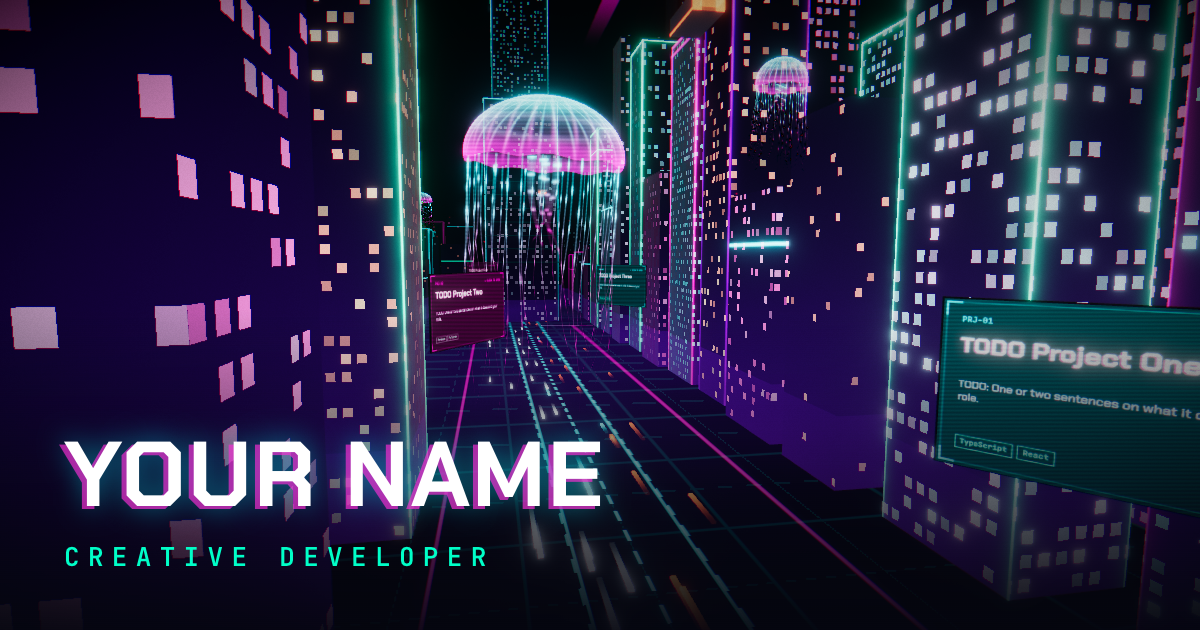
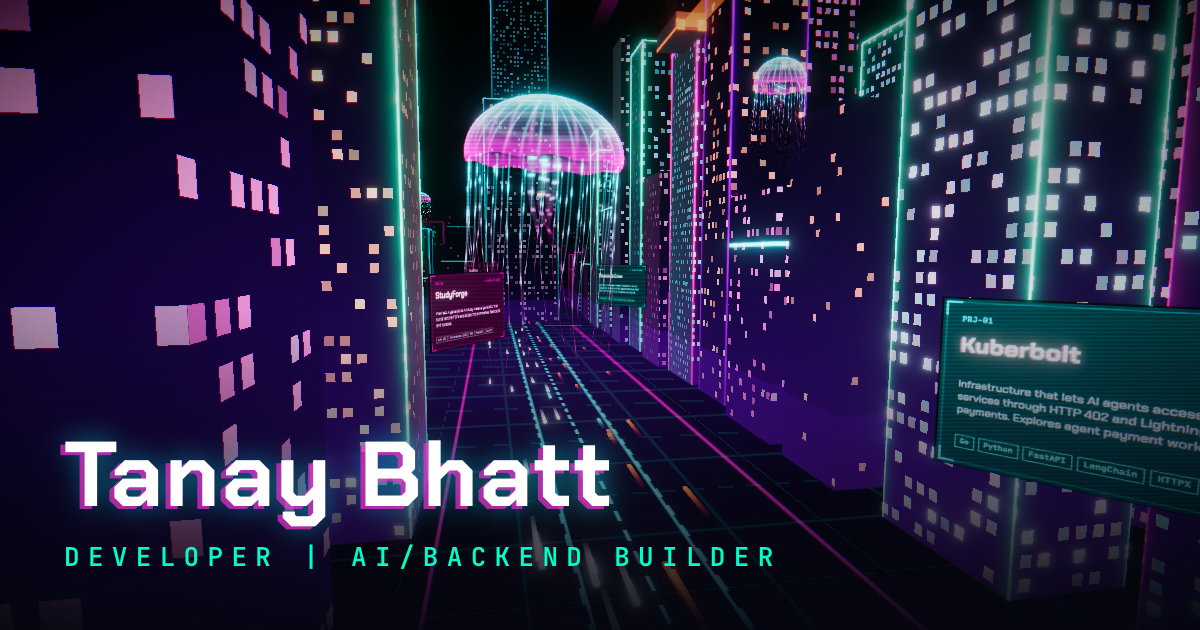
Fill in personal content; fit longer text on the holograms
- content.ts: bio, Kuberbolt + three planned projects, skills, contact
- skills tower: one floor per skill group instead of per item
- holo panels: auto-fit hero title and about bio, cap tech chips, ellipsize descriptions
- site URL falls back to Vercel's default production domain
- regenerated public/og.png

diff --git a/src/content.ts b/src/content.ts
@@ -1,5 +1,5 @@
 // ─────────────────────────────────────────────────────────────
-// ALL personal content lives here. Replace every "TODO" value.
+// ALL personal content lives here.
 // The 3D billboards and the HTML sections both read from this file.
 // ─────────────────────────────────────────────────────────────
 
@@ -26,68 +26,77 @@ export interface ContactLink {
 }
 
 export const content = {
-  name: 'YOUR NAME', // TODO
-  title: 'Creative Developer', // TODO
-  tagline: 'Building things that glow in the dark.', // TODO
-  location: 'TODO City, Country', // TODO
+  name: 'Tanay Bhatt',
+  title: 'Developer | AI/Backend Builder',
+  tagline: 'Building practical software at the intersection of AI, backend engineering, and decentralized systems.',
+  location: 'Udaipur, Rajasthan, India',
 
   bio: [
-    // TODO: 2–3 short paragraphs
-    'TODO: Who you are in one or two sentences.',
-    'TODO: What you work on and what you care about.',
+    "I'm a second-year undergraduate at IIT Jodhpur, passionate about software development, backend engineering, and building things that solve real problems. I enjoy exploring new technologies, experimenting with ideas, and turning concepts into working projects.",
+    "I actively participate in hackathons and enjoy working on projects involving AI agents, APIs, distributed systems, and developer tools. I'm particularly interested in understanding how systems work under the hood, from networking and concurrency to scalable architectures.",
+    "I'm also working toward becoming a stronger open-source contributor, with a particular interest in programs like Google Summer of Code (GSoC) and Summer of Bitcoin. I enjoy collaborating with other developers, learning from real-world codebases, and contributing to projects that people actually use.",
   ],
 
   projects: [
     {
-      id: 'project-one',
-      title: 'TODO Project One',
-      description: 'TODO: One or two sentences on what it does and your role.',
-      tech: ['TypeScript', 'React'],
-      links: [
-        { label: 'Live', href: 'https://example.com' },
-        { label: 'Code', href: 'https://github.com/' },
-      ],
+      id: 'kuberbolt',
+      title: 'Kuberbolt',
+      description:
+        'Infrastructure that lets AI agents access paid web services through HTTP 402 and Lightning Network payments. Explores agent payment workflows, non-custodial payments, and middleware for integrating payments into agent request loops.',
+      tech: ['Go', 'Python', 'FastAPI', 'LangChain', 'HTTPX', 'Lightning Network', 'LDK', 'libp2p'],
+      links: [{ label: 'Code', href: 'https://github.com/devlup-labs/kuberbolt' }],
       image: '',
     },
     {
-      id: 'project-two',
-      title: 'TODO Project Two',
-      description: 'TODO: One or two sentences on what it does and your role.',
-      tech: ['Python', 'PyTorch'],
-      links: [{ label: 'Code', href: 'https://github.com/' }],
+      id: 'studyforge',
+      title: 'StudyForge',
+      description:
+        'Planned. A generative AI study material generator that turns lecture PDFs and slides into summaries, flashcards and quizzes.',
+      tech: ['LLM API', 'Structured JSON', 'RAG', 'FastAPI', 'Docker', 'GitHub Actions'],
+      links: [],
       image: '',
     },
     {
-      id: 'project-three',
-      title: 'TODO Project Three',
-      description: 'TODO: One or two sentences on what it does and your role.',
-      tech: ['Three.js', 'GLSL'],
-      links: [{ label: 'Live', href: 'https://example.com' }],
+      id: 'researchcrew',
+      title: 'ResearchCrew',
+      description:
+        'Planned. A multi-agent research assistant: Planner, Researcher, Critic and Writer agents produce a cited report, and the UI shows the agents working live.',
+      tech: ['LangGraph', 'CrewAI', 'Claude Agent SDK', 'Tool use', 'LangSmith', 'OpenTelemetry'],
+      links: [],
       image: '',
     },
     {
-      id: 'project-four',
-      title: 'TODO Project Four',
-      description: 'TODO: One or two sentences on what it does and your role.',
-      tech: ['Node.js', 'PostgreSQL'],
-      links: [{ label: 'Code', href: 'https://github.com/' }],
+      id: 'opspilot',
+      title: 'OpsPilot',
+      description:
+        'Planned. A multi-agent DevOps incident responder: agents detect, diagnose and propose fixes for faults in a Dockerized or Kubernetes app, and a human approves risky actions.',
+      tech: ['Docker', 'Kubernetes', 'kind', 'Prometheus', 'Grafana', 'Agent tool use'],
+      links: [],
       image: '',
     },
   ] satisfies Project[],
 
   skills: [
-    { label: 'Languages', items: ['TypeScript', 'Python', 'C++'] }, // TODO
-    { label: 'Frontend', items: ['React', 'Three.js', 'GLSL', 'Tailwind'] }, // TODO
-    { label: 'Backend', items: ['Node.js', 'PostgreSQL'] }, // TODO
-    { label: 'Tools', items: ['Git', 'Docker', 'Figma'] }, // TODO
+    { label: 'Languages', items: ['C', 'C++', 'Python', 'Go'] },
+    { label: 'Backend', items: ['FastAPI', 'REST APIs', 'HTTPX', 'Webhooks', 'Asynchronous Programming'] },
+    { label: 'AI & ML', items: ['LangChain', 'AI Agents', 'NumPy', 'Pandas', 'Scikit-learn', 'ChromaDB'] },
+    {
+      label: 'Systems',
+      items: ['Networking', 'Concurrency', 'Distributed Systems', 'HTTP', 'Lightning Network fundamentals'],
+    },
+    { label: 'Dev Tools', items: ['Git', 'GitHub', 'Linux/CLI', 'Jupyter Notebook'] },
+    {
+      label: 'Exploring',
+      items: ['Open-source development', 'LDK', 'Decentralized systems', 'Agentic payments', 'Scalable backend architectures'],
+    },
   ] satisfies SkillGroup[],
 
   contact: {
-    email: 'you@example.com', // TODO
+    email: 'tanaybhatt58@gmail.com',
     links: [
-      { label: 'GitHub', href: 'https://github.com/', code: 'GH' }, // TODO
-      { label: 'LinkedIn', href: 'https://linkedin.com/', code: 'IN' }, // TODO
-      { label: 'Email', href: 'mailto:you@example.com', code: '@' }, // TODO
+      { label: 'GitHub', href: 'https://github.com/b25mt1045-bit', code: 'GH' },
+      { label: 'LinkedIn', href: 'https://www.linkedin.com/in/tanay-bhatt-8601742ab', code: 'IN' },
+      { label: 'Email', href: 'mailto:tanaybhatt58@gmail.com', code: '@' },
     ] satisfies ContactLink[],
   },
 }

diff --git a/src/world/holo/panels.ts b/src/world/holo/panels.ts
@@ -1,5 +1,5 @@
 import { palette } from '../../theme'
-import type { ContactLink, Project } from '../../content'
+import type { ContactLink, Project, SkillGroup } from '../../content'
 
 // Canvas artwork for every hologram panel. Everything is drawn at runtime from content.ts,
 // so there are no image assets to license or load.
@@ -83,13 +83,19 @@ export const drawHeroName =
     ctx.font = display(size)
     while (ctx.measureText(name).width > w * 0.92 && size > 20) ctx.font = display((size -= 4))
     splitText(ctx, name, w / 2, h * 0.42, palette.cyan)
-    ctx.font = mono(h * 0.09, 600)
+    const spaced = title.toUpperCase().split('').join(' ')
+    size = h * 0.09
+    ctx.font = mono(size, 600)
+    while (ctx.measureText(spaced).width > w * 0.9 && size > 12) ctx.font = mono((size -= 2), 600)
     ctx.fillStyle = palette.teal
-    ctx.fillText(title.toUpperCase().split('').join(' '), w / 2, h * 0.82)
-    // rule lines either side of the title
-    ctx.fillStyle = palette.cyan
-    ctx.fillRect(w * 0.05, h * 0.82, w * 0.18, 3)
-    ctx.fillRect(w * 0.77, h * 0.82, w * 0.18, 3)
+    ctx.fillText(spaced, w / 2, h * 0.82)
+    // rule lines either side of the title, when there is room for them
+    const tw = ctx.measureText(spaced).width
+    if (tw < w * 0.5) {
+      ctx.fillStyle = palette.cyan
+      ctx.fillRect(w * 0.05, h * 0.82, w * 0.18, 3)
+      ctx.fillRect(w * 0.77, h * 0.82, w * 0.18, 3)
+    }
   }
 
 export const drawAbout =
@@ -104,15 +110,26 @@ export const drawAbout =
     ctx.fillText('// 01  ABOUT', pad, pad)
     ctx.font = display(w * 0.085)
     splitText(ctx, name, pad, pad + w * 0.06, '#ffffff')
-    let y = pad + w * 0.2
-    ctx.font = display(w * 0.042, 400)
+    // shrink the body text until the bio fits above the location line
+    const top = pad + w * 0.2
+    const bottom = h - pad - w * 0.08
+    let s = 1
+    let paras: string[][]
+    for (;;) {
+      ctx.font = display(w * 0.042 * s, 400)
+      paras = bio.map((para) => wrap(ctx, para, w - pad * 2))
+      const lines = paras.reduce((n, l) => n + l.length, 0)
+      if (top + w * s * (lines * 0.058 + paras.length * 0.03) <= bottom || s < 0.5) break
+      s -= 0.05
+    }
+    let y = top
     ctx.fillStyle = '#e8f6ff'
-    for (const para of bio) {
-      for (const line of wrap(ctx, para, w - pad * 2)) {
+    for (const para of paras) {
+      for (const line of para) {
         ctx.fillText(line, pad, y)
-        y += w * 0.058
+        y += w * 0.058 * s
       }
-      y += w * 0.03
+      y += w * 0.03 * s
     }
     ctx.font = mono(w * 0.03)
     ctx.fillStyle = palette.cyan
@@ -140,7 +157,9 @@ export const drawProject =
     ctx.font = display(w * 0.034, 400)
     ctx.fillStyle = '#d8ecff'
     let y = pad + h * 0.38
-    for (const line of wrap(ctx, p.description, w - pad * 2).slice(0, 3)) {
+    const lines = wrap(ctx, p.description, w - pad * 2)
+    if (lines.length > 3) lines[2] = lines[2].replace(/[\s,.;:]*\S*$/, '…') // full text is in the HTML panel
+    for (const line of lines.slice(0, 3)) {
       ctx.fillText(line, pad, y)
       y += w * 0.046
     }
@@ -151,6 +170,7 @@ export const drawProject =
     const chipY = h - pad - w * 0.05
     for (const t of p.tech) {
       const tw = ctx.measureText(t).width + w * 0.03
+      if (x + tw > w - pad) break // the HTML panel lists the full stack
       ctx.strokeStyle = palette.teal
       ctx.lineWidth = 2
       ctx.strokeRect(x, chipY, tw, w * 0.045)
@@ -160,20 +180,22 @@ export const drawProject =
     }
   }
 
-/** One tall strip covering the tower face; label i sits at fraction `levelFrac(i)` from the bottom. */
+/** One tall strip covering the tower face; group i hangs just below floor line `levelFrac(i)` (from the bottom). */
 export const drawSkillsStrip =
-  (items: { group: string; item: string }[], levelFrac: (i: number) => number): Draw =>
+  (groups: SkillGroup[], levelFrac: (i: number) => number): Draw =>
   (ctx, w, h) => {
-    ctx.textBaseline = 'middle'
-    items.forEach(({ group, item }, i) => {
+    ctx.textBaseline = 'top'
+    groups.forEach(({ label, items }, i) => {
       const y = h * (1 - levelFrac(i))
-      ctx.font = mono(w * 0.04, 600)
-      ctx.fillStyle = palette.teal
-      ctx.fillText(group.toUpperCase(), w * 0.04, y - w * 0.055)
-      ctx.font = display(w * 0.085)
-      splitText(ctx, item.toUpperCase(), w * 0.04, y + w * 0.01, '#ffffff')
       ctx.fillStyle = palette.cyan
-      ctx.fillRect(w * 0.04, y + w * 0.065, w * 0.92, 3)
+      ctx.fillRect(w * 0.04, y, w * 0.92, 3)
+      ctx.font = display(w * 0.075)
+      splitText(ctx, label.toUpperCase(), w * 0.04, y + w * 0.03, '#ffffff')
+      ctx.font = mono(w * 0.036, 600)
+      ctx.fillStyle = palette.teal
+      wrap(ctx, items.join('  ·  '), w * 0.92).forEach((line, k) => {
+        ctx.fillText(line, w * 0.04, y + w * (0.13 + k * 0.05))
+      })
     })
   }
 

diff --git a/src/world/PortfolioLandmarks.tsx b/src/world/PortfolioLandmarks.tsx
@@ -27,7 +27,7 @@ import {
   HERO_NAME,
   PROJECT_PANELS,
   SKILLS_TOWER,
-  SKILL_ITEMS,
+  SKILL_FLOORS,
   skillLevelY,
 } from './landmarks'
 import { sceneClock } from './sceneTime'
@@ -130,13 +130,13 @@ function skillsReveal() {
 
 function SkillsTower() {
   const { center, half, yMin, yMax } = SKILLS_TOWER
-  const n = SKILL_ITEMS.length
-  // the label strip spans the floors plus a margin
-  const stripBottom = yMin - 6
+  const n = SKILL_FLOORS.length
+  // the label strip spans the floors plus room for the lowest group's text below its floor
+  const stripBottom = yMin - 20
   const stripTop = yMax + 10
   const stripH = stripTop - stripBottom
   const levelFrac = (i: number) => (skillLevelY(i) - stripBottom) / stripH
-  const draw = useMemo(() => drawSkillsStrip(SKILL_ITEMS, levelFrac), [])
+  const draw = useMemo(() => drawSkillsStrip(SKILL_FLOORS, levelFrac), [])
   const stripW = half * 2 - 6
 
   // glowing floor plates, one per skill, slightly wider than the tower
@@ -145,7 +145,7 @@ function SkillsTower() {
     const g = new BoxGeometry(1, 1, 1)
     g.setAttribute(
       'aLevel',
-      new InstancedBufferAttribute(Float32Array.from(SKILL_ITEMS, (_, i) => (n === 1 ? 0 : i / (n - 1))), 1),
+      new InstancedBufferAttribute(Float32Array.from(SKILL_FLOORS, (_, i) => (n === 1 ? 0 : i / (n - 1))), 1),
     )
     const m = new ShaderMaterial({
       vertexShader: plateVertex,
@@ -161,7 +161,7 @@ function SkillsTower() {
 
   useLayoutEffect(() => {
     const o = new Object3D()
-    SKILL_ITEMS.forEach((_, i) => {
+    SKILL_FLOORS.forEach((_, i) => {
       o.position.set(center.x, skillLevelY(i) - 2.5, center.z)
       o.scale.set(half * 2 + 1.6, 0.5, half * 2 + 1.6)
       o.updateMatrix()

diff --git a/src/world/landmarks.ts b/src/world/landmarks.ts
@@ -53,8 +53,8 @@ export function projectCameraPose(i: number, distance: number) {
   return { pos, look: p.center.clone() }
 }
 
-// ── SKILLS: one lit floor per skill on the skills tower's lower tier (60 m wide, 180 m tall) ──
-export const SKILL_ITEMS = content.skills.flatMap((g) => g.items.map((item) => ({ group: g.label, item })))
+// ── SKILLS: one lit floor per skill group on the skills tower's lower tier (60 m wide, 180 m tall) ──
+export const SKILL_FLOORS = content.skills
 export const SKILLS_TOWER = {
   center: LANDMARKS.skillsTower,
   half: 30,
@@ -62,9 +62,9 @@ export const SKILLS_TOWER = {
   yMax: 172,
 }
 export const skillLevelY = (i: number) =>
-  SKILL_ITEMS.length === 1
+  SKILL_FLOORS.length === 1
     ? (SKILLS_TOWER.yMin + SKILLS_TOWER.yMax) / 2
-    : SKILLS_TOWER.yMin + (i * (SKILLS_TOWER.yMax - SKILLS_TOWER.yMin)) / (SKILL_ITEMS.length - 1)
+    : SKILLS_TOWER.yMin + (i * (SKILLS_TOWER.yMax - SKILLS_TOWER.yMin)) / (SKILL_FLOORS.length - 1)
 
 // ── CONTACT: beacons on the contact tower's second-tier roof (40 m wide, top at y=240) ──
 export const CONTACT_ROOF = { center: new Vector3(LANDMARKS.contactMast.x, 240, LANDMARKS.contactMast.z), half: 20 }

diff --git a/vite.config.ts b/vite.config.ts
@@ -10,6 +10,13 @@ const esc = (s: string) => s.replace(/&/g, '&amp;').replace(/</g, '&lt;').replac
  * (title, description, Open Graph / Twitter tags, JSON-LD, a <noscript> copy of the content)
  * and emits robots.txt and sitemap.xml at build time.
  */
+/** VITE_SITE_URL if set, else the project's default Vercel domain (set by Vercel at build time). */
+function siteUrl(explicit?: string) {
+  if (explicit) return explicit
+  const vercel = process.env.VERCEL_PROJECT_PRODUCTION_URL
+  return vercel ? `https://${vercel}` : 'https://example.com'
+}
+
 function seo(siteUrl: string): Plugin {
   const url = siteUrl.replace(/\/$/, '')
   const title = `${content.name} — ${content.title}`
@@ -72,7 +79,7 @@ function seo(siteUrl: string): Plugin {
 export default defineConfig(({ mode }) => {
   const env = loadEnv(mode, '.', 'VITE_')
   return {
-    plugins: [react(), tailwindcss(), seo(env.VITE_SITE_URL || 'https://example.com')],
+    plugins: [react(), tailwindcss(), seo(siteUrl(env.VITE_SITE_URL))],
     build: {
       // the three.js chunk is large by nature; it is loaded after the boot loader paints
       chunkSizeWarningLimit: 1200,

diff --git a/src/sections/Sections.tsx b/src/sections/Sections.tsx
@@ -57,15 +57,17 @@ export function Sections() {
               <h3>{p.title}</h3>
               <p>{p.description}</p>
               <p>Tech: {p.tech.join(', ')}</p>
-              <ul>
-                {p.links.map((l) => (
-                  <li key={l.href}>
-                    <a href={l.href} target="_blank" rel="noreferrer">
-                      {l.label}: {p.title}
-                    </a>
-                  </li>
-                ))}
-              </ul>
+              {p.links.length > 0 && (
+                <ul>
+                  {p.links.map((l) => (
+                    <li key={l.href}>
+                      <a href={l.href} target="_blank" rel="noreferrer">
+                        {l.label}: {p.title}
+                      </a>
+                    </li>
+                  ))}
+                </ul>
+              )}
               <button type="button" onClick={() => openProject(i)}>
                 Fly to {p.title}
               </button>

diff --git a/CLAUDE.md b/CLAUDE.md
@@ -49,7 +49,8 @@ Fonts: Chakra Petch (display), JetBrains Mono (HUD/data).
 - **Boot path rule:** `src/App.tsx` lazy-loads `src/Scene.tsx` (the whole three.js stack, its own chunk via `vite.config.ts` codeSplitting) so the loader paints first. Modules reachable from the UI/audio/store (`telemetry`, `navigation`, `ambient`, `quality`, `content`) must NOT import `three` or anything in `src/world` except `holo/panels`; otherwise the 1 MB chunk becomes a static dependency of the entry again (check `head -c 900 dist/assets/index-*.js` imports only react).
 - **Scene clock:** ambient shader time comes from `sceneClock.time` (`src/world/sceneTime.ts`), which runs at 8% speed under prefers-reduced-motion. Use it instead of `clock.elapsedTime`. Reduced motion also turns off Lenis, camera sway/parallax/banking, glitch pulses and the scramble text; the setting is followed live.
 - **Portrait screens:** `CameraRig` widens the vertical FOV (cap 88°) and backs the project zoom off so 30 m billboards stay in frame on phones.
-- **SEO** (`vite.config.ts` `seo()` plugin): title, description, Open Graph/Twitter tags, JSON-LD (Person + WebSite), a `<noscript>` copy of the content, `robots.txt` and `sitemap.xml` are all generated from `src/content.ts`; `index.html` only has `{{TOKENS}}`. The site URL comes from `VITE_SITE_URL` in `.env`. `public/og.png` is generated by `npm run og` (needs `npm run dev` running and Chrome; re-run after editing content).
+- **SEO** (`vite.config.ts` `seo()` plugin): title, description, Open Graph/Twitter tags, JSON-LD (Person + WebSite), a `<noscript>` copy of the content, `robots.txt` and `sitemap.xml` are all generated from `src/content.ts`; `index.html` only has `{{TOKENS}}`. The site URL comes from `VITE_SITE_URL` if set, else Vercel's `VERCEL_PROJECT_PRODUCTION_URL` (the default `*.vercel.app` domain) at build time. `public/og.png` is generated by `npm run og` (needs `npm run dev` running and Chrome; re-run after editing content).
+- Skills tower: one lit floor per skill **group** (items listed under it), not per item. Billboards cap tech chips to what fits and ellipsize long descriptions; the HTML panel shows everything.
 - Nav and project jump targets live in `src/scroll/navigation.ts`; `scrollToProgress(p, onComplete)` flies the camera there.
 - Loader (`src/ui/Loader.tsx`) tracks real milestones reported by `src/world/Preloader.tsx` (fonts, WebGL, `compileAsync`, warm-up frames) and locks scroll until done.
 - 3D hover sets `store.pointerHint`, which drives the custom cursor (`src/ui/Cursor.tsx`); don't set `document.body.style.cursor`.
@@ -81,7 +82,7 @@ The orbit epilogue (user-approved): rise above the clouds to a planet horizon; n
 - Dev aids: `?nofx` disables post-processing; `window.__gl` exposes the renderer in dev; `window.__glitch()` fires a glitch burst.
 
 ## Deploy (Vercel)
-`vercel.json` sets framework, immutable asset caching and basic security headers. Before the first real deploy: replace every `TODO` in `src/content.ts`, set `VITE_SITE_URL` (in `.env` and/or Vercel project settings), run `npm run og`, commit. Deploy with `npx vercel` (preview) then `npx vercel --prod`, or connect the repo in the Vercel dashboard. Not deployed yet: it needs the user's Vercel login and domain.
+`vercel.json` sets framework, immutable asset caching and basic security headers. Content is filled in (2026-10-18) and `public/og.png` regenerated. The default Vercel domain is used for now; for a custom domain later, set `VITE_SITE_URL` in Vercel project settings and redeploy. Deploy with `npx vercel` (preview) then `npx vercel --prod`, or connect the repo in the Vercel dashboard. Not deployed yet: it needs the user's Vercel login and domain.
 
 ## Known follow-ups
 - Wet-ground reflections were dropped along with rain; the ground looked fine in M6/M7 review, so there are no plans to add them.
